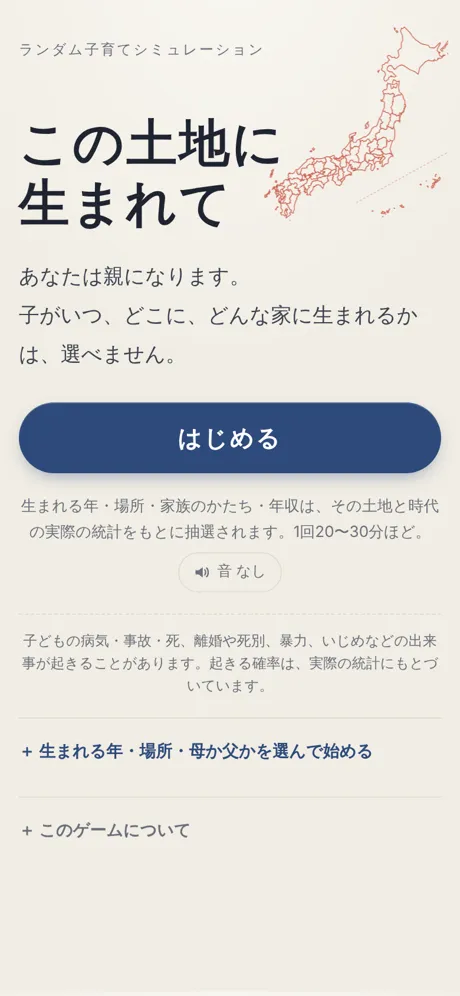
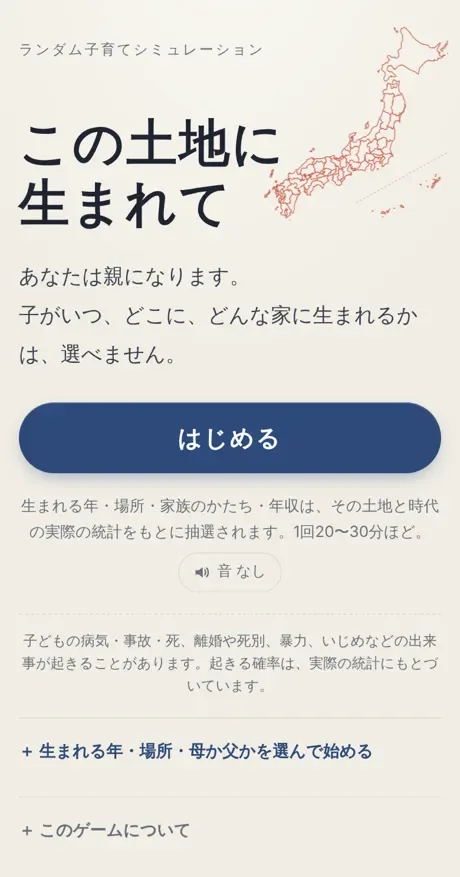
「この土地に生まれて」紹介ページのスマホ枠をスクリーンショットの比率に合わせる、「審査官」サムネイルを別名にしてキャッシュを回避
Claude-Session: https://claude.ai/code/session_011VMfTZXirKtMEuRbJRTVcv

diff --git a/ai-judge/index.html b/ai-judge/index.html
@@ -12,12 +12,12 @@
 <meta property="og:title" content="審査官は複製された夢を通すか？ | NAKATA ATARU">
 <meta property="og:description" content="AIが絡む「似ている作品」を10件審査して、自分の立ち位置を見る。ブラウザで無料で遊べる、AIとゲームのための「ポリティカルコンパス」。">
 <meta property="og:url" content="https://nakata-ataru.com/ai-judge/">
-<meta property="og:image" content="https://nakata-ataru.com/img/ai-judge-card.png">
+<meta property="og:image" content="https://nakata-ataru.com/img/ai-judge-card-2.png">
 <meta name="twitter:card" content="summary_large_image">
 <meta name="twitter:site" content="@nakata___ataru">
 <meta name="twitter:title" content="審査官は複製された夢を通すか？ | NAKATA ATARU">
 <meta name="twitter:description" content="AIが絡む「似ている作品」を10件審査して、自分の立ち位置を見る。ブラウザで無料で遊べる、AIとゲームのための「ポリティカルコンパス」。">
-<meta name="twitter:image" content="https://nakata-ataru.com/img/ai-judge-card.png">
+<meta name="twitter:image" content="https://nakata-ataru.com/img/ai-judge-card-2.png">
 <meta name="theme-color" content="#f2ede1">
 <link rel="icon" href="/favicon.ico" sizes="any">
 <link rel="icon" type="image/png" sizes="32x32" href="/favicon-32.png">
@@ -62,7 +62,7 @@ p,blockquote,.bd{font-family:'Zen Kaku Gothic New','Hiragino Sans',sans-serif;le
 
 <section style="display: flex; flex-direction: column; gap: 20px">
 <div style="color: #5f5a50">C:\NAKATA\WORKS&gt; <span style="color: #161513">No.04</span></div>
-<div style="aspect-ratio: 16 / 9; background: #161513; border: 3px solid #161513; overflow: hidden; line-height: 0"><img src="/img/ai-judge-card.png" alt="「審査官は複製された夢を通すか？」のタイトルと、ゲーム画面のスクリーンショット" style="width: 100%; height: 100%; object-fit: cover"></div>
+<div style="aspect-ratio: 16 / 9; background: #161513; border: 3px solid #161513; overflow: hidden; line-height: 0"><img src="/img/ai-judge-card-2.png" alt="「審査官は複製された夢を通すか？」のタイトルと、ゲーム画面のスクリーンショット" style="width: 100%; height: 100%; object-fit: cover"></div>
 <div style="display: flex; flex-wrap: wrap; gap: 28px; align-items: flex-start; padding-top: 8px">
 <div style="flex: 999 1 520px; min-width: 0; display: flex; flex-direction: column; gap: 10px">
 <div style="display: flex; justify-content: space-between; font-family: 'VT323', monospace; font-size: 22px"><span>No.04</span><span>[PLAYABLE]</span></div>

diff --git a/index.html b/index.html
@@ -54,7 +54,7 @@ a.ov:hover img{opacity:.82}a.ov:focus-visible{outline:3px solid #161513;outline-
 <div style="display: grid; grid-template-columns: repeat(auto-fill, minmax(300px, 1fr)); gap: 28px">
 <div style="display: flex; flex-direction: column; gap: 10px; border-top: 3px solid #161513; padding-top: 12px">
 <div style="display: flex; justify-content: space-between; font-family: 'VT323', monospace; font-size: 20px"><span>No.04</span><span>[PLAYABLE]</span></div>
-<a class="ov" href="/ai-judge/" aria-label="審査官は複製された夢を通すか？の詳細へ"><div style="aspect-ratio: 16 / 9; background: #161513; border: 3px solid #161513; overflow: hidden; line-height: 0"><img src="/img/ai-judge-card.png" alt="「審査官は複製された夢を通すか？」のタイトル画像" style="width: 100%; height: 100%; object-fit: cover"></div></a>
+<a class="ov" href="/ai-judge/" aria-label="審査官は複製された夢を通すか？の詳細へ"><div style="aspect-ratio: 16 / 9; background: #161513; border: 3px solid #161513; overflow: hidden; line-height: 0"><img src="/img/ai-judge-card-2.png" alt="「審査官は複製された夢を通すか？」のタイトル画像" style="width: 100%; height: 100%; object-fit: cover"></div></a>
 <a class="ov" href="/ai-judge/" style="font-size: 21px; line-height: 1.4; display: block">審査官は複製された夢を通すか？</a>
 <div style="color: #5f5a50; font-size: 13px">審査ゲーム・診断／約5分／無料</div>
 <p style="margin: 0; font-size: 14px">AIが絡む「似ている作品」を10件審査して、自分の立ち位置を見る。AIとゲームのための「ポリティカルコンパス」。</p>

diff --git a/konotochi/index.html b/konotochi/index.html
@@ -45,6 +45,10 @@ p,blockquote,.bd{font-family:'Zen Kaku Gothic New','Hiragino Sans',sans-serif;le
 .g2nav:hover{background:#161513;color:#f2ede1}
 .g2nav:disabled{opacity:.3;cursor:default}
 
+/* スクリーンショットの比率に合わせた画面（切り欠きなし・全面表示） */
+.g2screen{aspect-ratio:460/877;background:#f0ede5}
+.g2notch{display:none}
+.g2shot{left:0;right:0;top:0;bottom:0;width:100%;height:100%;object-fit:cover;object-position:top}
 </style>
 </head>
 <body>
